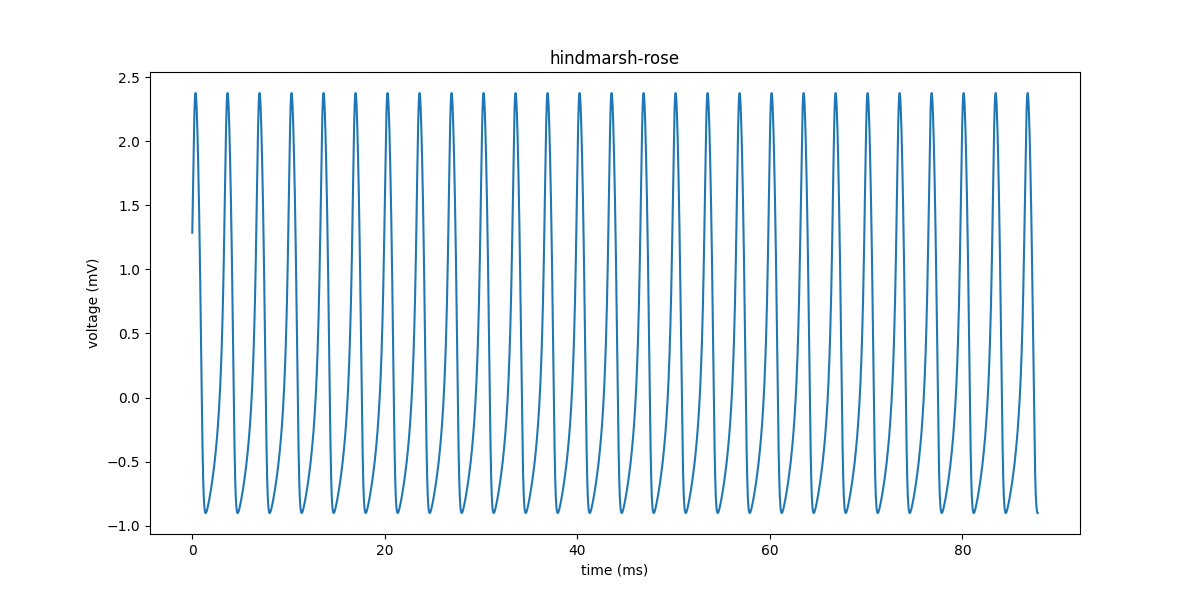
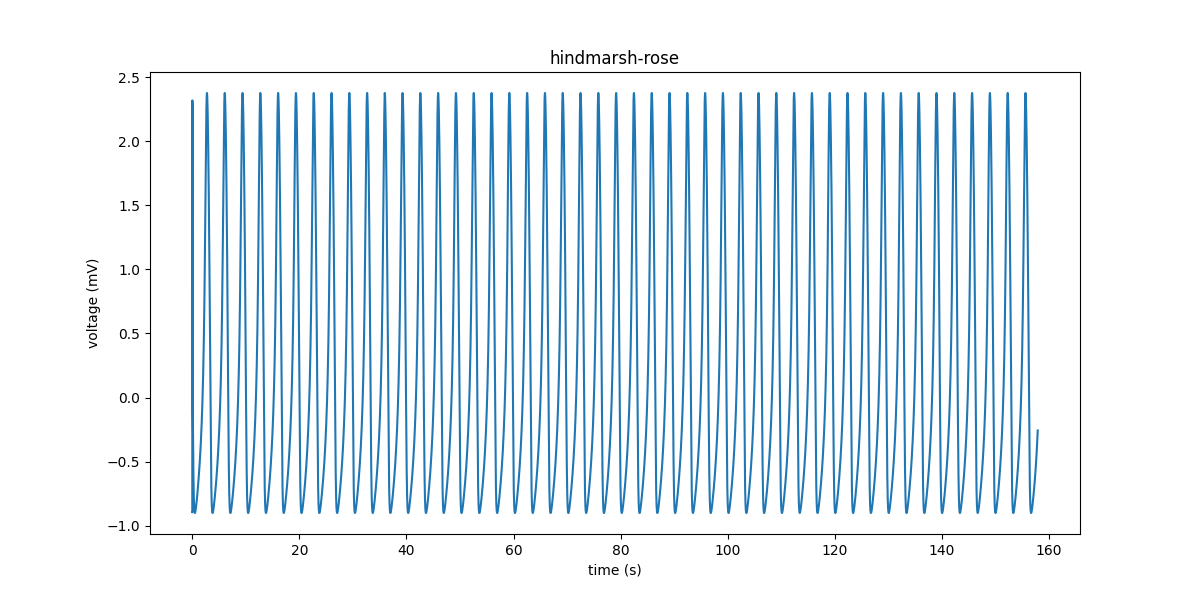
args on class

diff --git a/inc/Model/HindmarshRose.hpp b/inc/Model/HindmarshRose.hpp
@@ -32,29 +32,39 @@ public:
    * @brief This function initialices the Hindmarsh-Rose model.
    * @param synaptic Indicates if the Hindmarsh-Rose model will respond at the
    * inputs.
-   * @param initial_values The initial values for the model.
    * @param initial_time The initial time for the model.
    * @param time_increment The time increment for the model.
+   * @param x The x value for the model.
+   * @param y The y value for the model.
+   * @param z The z value for the model.
+   * @param e The e value for the model.
+   * @param S The S value for the model.
+   * @param m The m value for the model.
    *
    * @return Returns the Hindmarsh-Rose model initialized.
    */
-  HindmarshRose(bool synaptic, std::vector<float> initial_values,
-                float initial_time, float time_increment);
+  HindmarshRose(bool synaptic, float initial_time, float time_increment,
+                float x, float y, float z, float e, float S, float m);
 
   /**
    * @brief This function initialices the Hindmarsh-Rose model.
    * @param synaptic Indicates if the Hindmarsh-Rose model will respond at the
    * inputs.
    * @param threshold The threshold for the neuron.
-   * @param initial_values The initial values for the model.
    * @param initial_time The initial time for the model.
    * @param time_increment The time increment for the model.
+   * @param x The x value for the model.
+   * @param y The y value for the model.
+   * @param z The z value for the model.
+   * @param e The e value for the model.
+   * @param S The S value for the model.
+   * @param m The m value for the model.
    *
    * @return Returns the Hindmarsh-Rose model initialized.
    */
-  HindmarshRose(bool synaptic, float threshold,
-                std::vector<float> initial_values, float initial_time,
-                float time_increment);
+  HindmarshRose(bool synaptic, float threshold, float initial_time,
+                float time_increment, float x, float y, float z, float e,
+                float S, float m);
   /**
    * @brief This function calculates the next time on the Hindmarsh-Rose model.
    *

diff --git a/src/Model/HindmarshRose.cpp b/src/Model/HindmarshRose.cpp
@@ -10,28 +10,30 @@
  */
 #include "Model/HindmarshRose.hpp"
 
-HindmarshRose::HindmarshRose(bool synaptic, std::vector<float> initial_values,
-                             float initial_time, float time_increment)
-    : Model(synaptic, initial_values, initial_time, time_increment) {
-  this->x = initial_values[0];
-  this->y = initial_values[1];
-  this->z = initial_values[2];
-  this->e = initial_values[3];
-  this->S = initial_values[4];
-  this->m = initial_values[5];
+HindmarshRose::HindmarshRose(bool synaptic, float initial_time,
+                             float time_increment, float x, float y, float z,
+                             float e, float S, float m)
+    : Model(synaptic, initial_time, time_increment) {
+  this->x = x;
+  this->y = y;
+  this->z = z;
+  this->e = e;
+  this->S = S;
+  this->m = m;
 }
 
-HindmarshRose::HindmarshRose(bool synaptic, float threshold,
-                             std::vector<float> initial_values,
-                             float initial_time, float time_increment)
-    : Model(synaptic, threshold, initial_values, initial_time, time_increment) {
-  this->x = initial_values[0];
-  this->y = initial_values[1];
-  this->z = initial_values[2];
-  this->e = initial_values[3];
-  this->S = initial_values[4];
-  this->m = initial_values[5];
+HindmarshRose::HindmarshRose(bool synaptic, float threshold, float initial_time,
+                             float time_increment, float x, float y, float z,
+                             float e, float S, float m)
+    : Model(synaptic, threshold, initial_time, time_increment) {
+  this->x = x;
+  this->y = y;
+  this->z = z;
+  this->e = e;
+  this->S = S;
+  this->m = m;
 }
+
 void HindmarshRose::calculate() {
   float value = 0;
   if (this->synaptic) {

diff --git a/src/Model/Model.cpp b/src/Model/Model.cpp
@@ -9,21 +9,18 @@
  *
  */
 #include "Model/Model.hpp"
-Model::Model(bool synaptic, std::vector<float> initial_values,
-             float initial_time, float time_incremet) {
+Model::Model(bool synaptic, float initial_time, float time_incremet) {
   this->synaptic = synaptic;
-  this->initial_values = initial_values;
   this->threshold = 0;
   this->recived_value = 0;
   this->time = initial_time;
   this->time_increment = time_incremet;
 }
 
-Model::Model(bool synaptic, float threshold, std::vector<float> initial_values,
-             float initial_time, float time_incremet) {
+Model::Model(bool synaptic, float threshold, float initial_time,
+             float time_incremet) {
   this->synaptic = synaptic;
   this->threshold = threshold;
-  this->initial_values = initial_values;
   this->recived_value = 0;
   this->time = initial_time;
   this->time_increment = time_incremet;

diff --git a/inc/Model/Model.hpp b/inc/Model/Model.hpp
@@ -25,7 +25,6 @@ public:
   bool synaptic;
   float threshold;
   float recived_value;
-  std::vector<float> initial_values;
   float time;
   float time_increment;
 
@@ -39,8 +38,7 @@ public:
    *
    * @return Returns the model initialized.
    */
-  Model(bool synaptic, std::vector<float> initial_values, float initial_time,
-        float time_increment);
+  Model(bool synaptic, float initial_time, float time_increment);
 
   /**
    * @brief This function initialices the model.
@@ -52,8 +50,8 @@ public:
    *
    * @return Returns the model initialized.
    */
-  Model(bool synaptic, float threshold, std::vector<float> initial_values,
-        float initial_time, float time_increment);
+  Model(bool synaptic, float threshold, float initial_time,
+        float time_increment);
 
   /**
    * @brief Sends a value to the model.

diff --git a/src/pico-neuron.cpp b/src/pico-neuron.cpp
@@ -29,7 +29,10 @@ int main() {
 
   char buffer[50];
 
-  HindmarshRose *model = new HindmarshRose(synaptic, ordered_params, 0, 0.001);
+  HindmarshRose *model =
+      new HindmarshRose(synaptic, 0, 0.001, ordered_params[0],
+                        ordered_params[1], ordered_params[2], ordered_params[3],
+                        ordered_params[4], ordered_params[5]);
 
   // stdio_init_all();
 

diff --git a/scripts/plot_model.py b/scripts/plot_model.py
@@ -20,7 +20,7 @@ def plot_model_data(directory: str, filename: str, name_model: str, separator: s
     #
     name = filename.split(".")[0]
 
-    plt.xlabel("time (ms)")
+    plt.xlabel("time (s)")
     plt.ylabel("voltage (mV)")
     plt.title(name)
 
